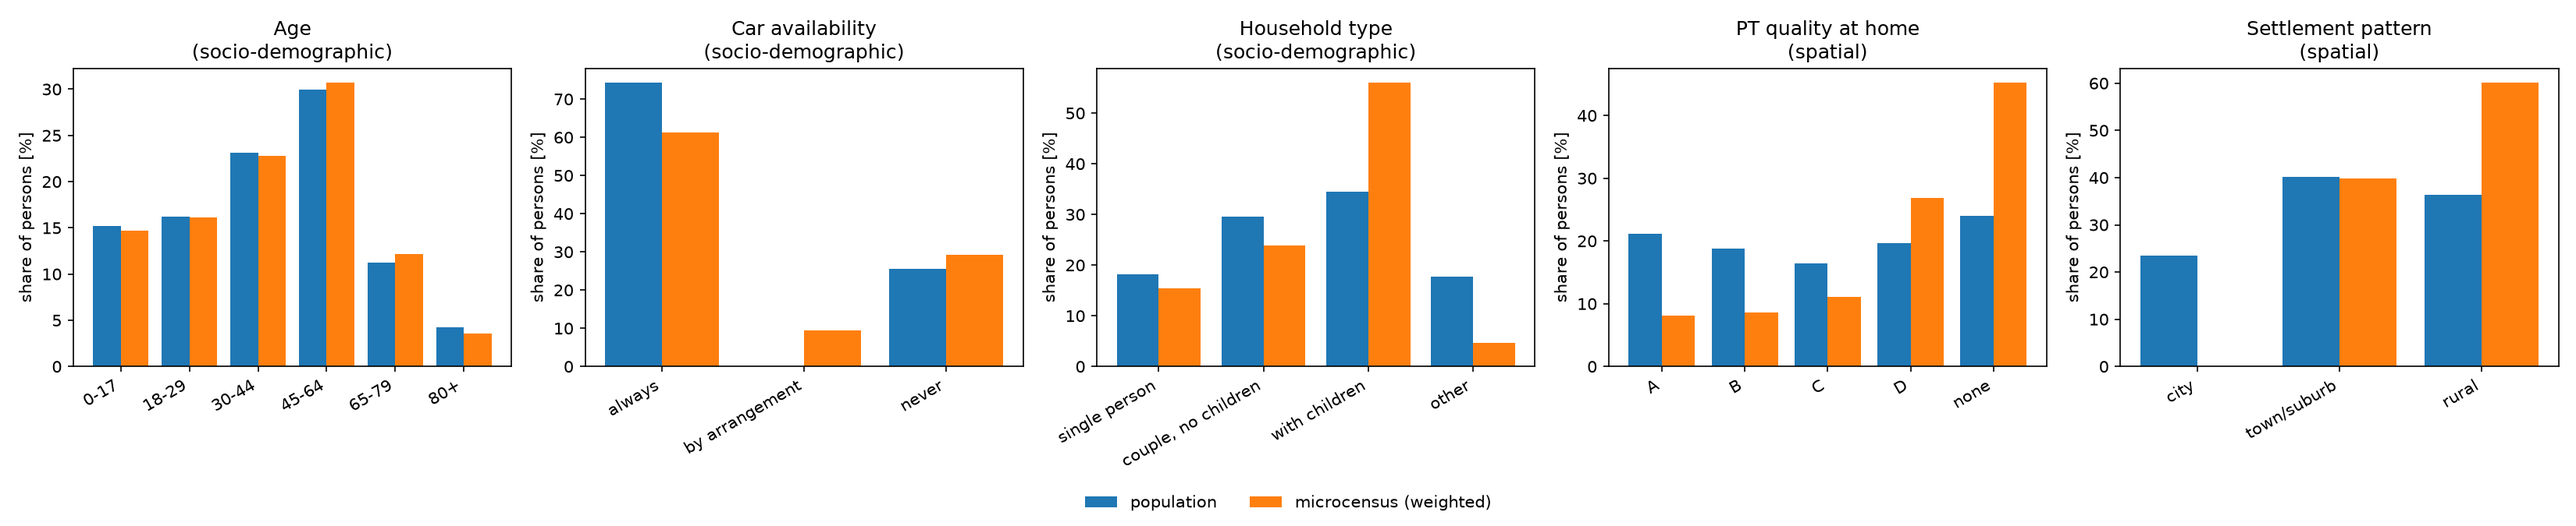
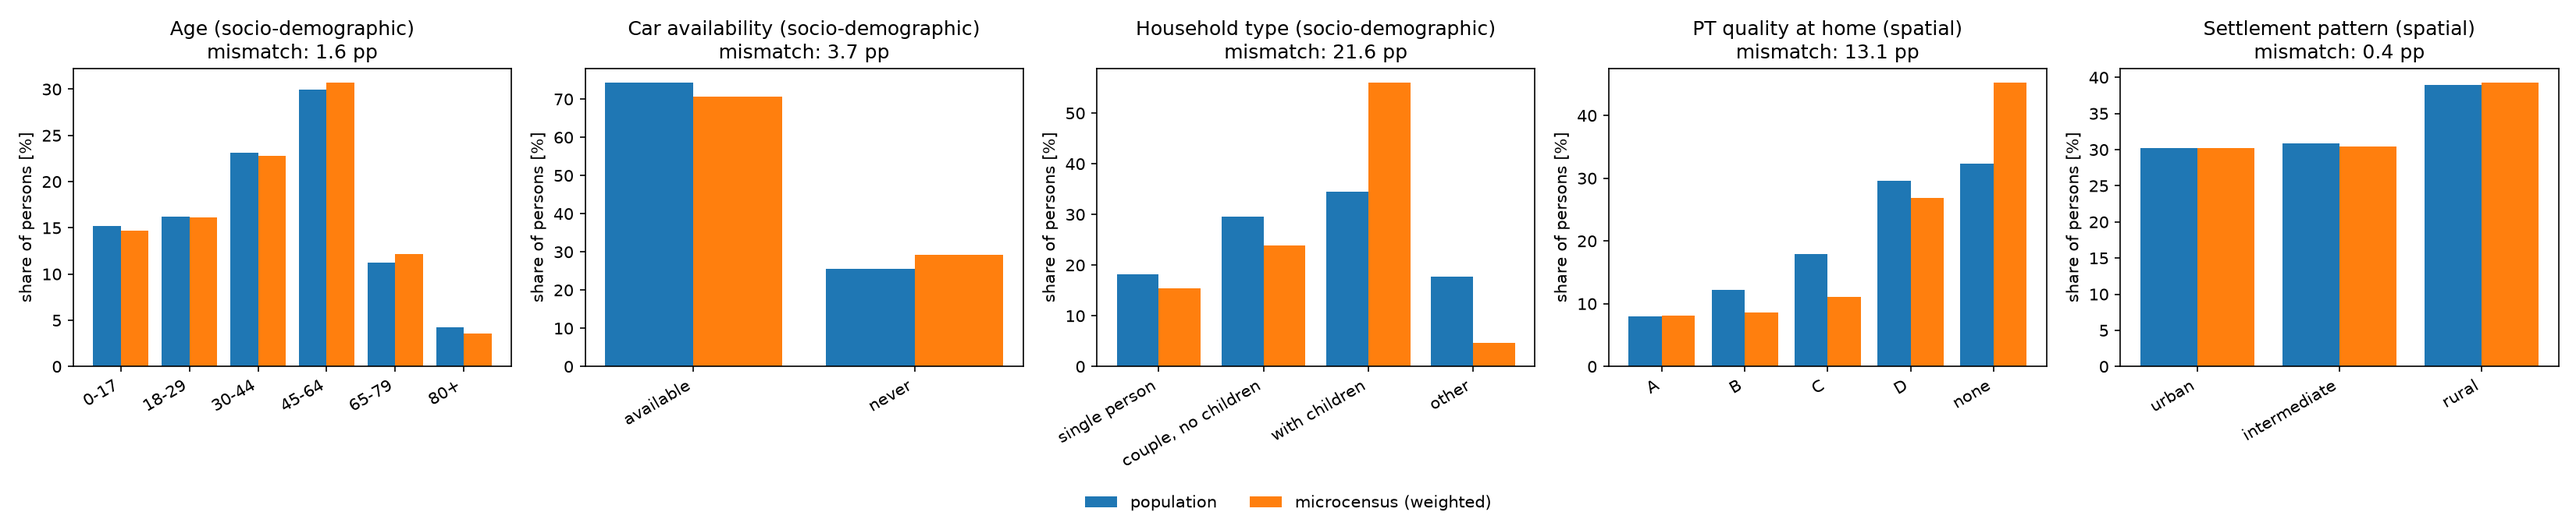
feat(assignment): update distribution comparison and add mismatch output

diff --git a/assignment/compare_distributions/compare.py b/assignment/compare_distributions/compare.py
@@ -6,13 +6,22 @@ two spatial ones (PT quality at home, settlement pattern), as shares of persons.
 Usage (from the repository root, after assignment/filter_data/filter_data.py):
     .venv/Scripts/python assignment/compare_distributions/compare.py
 
-Outputs: assignment/compare_distributions/output/comparison.csv and comparison.png
+Outputs: assignment/compare_distributions/output/comparison.csv, comparison.png and mismatch.csv
+
+Each subplot title shows the mismatch: the total variation distance between the two distributions,
+0.5 * sum(|population% - microcensus%|), in percentage points (0 = identical, 100 = disjoint). It is the
+share of persons that would have to change category for the population to match the microcensus.
 
 Notes
 - Microcensus shares are weighted with the person weight WP; population shares are unweighted.
+- Car availability: the population only distinguishes always/never, so the microcensus "always" and
+  "by arrangement" answers are merged into "available".
 - The microcensus has no target persons under 6, so the youngest age class differs by design.
-- Settlement pattern: population municipalityType is mapped onto the Eurostat DEGURBA classes
-  (urbancore/urban -> city, suburban -> town/suburb, rural -> rural); this is an approximation.
+- PT quality: the population value is looked up from the ARE Gueteklassen polygons (EPSG:2056) at
+  the home location; homes outside every polygon get "none". The microcensus uses its own W_OeV_KLASSE.
+- Settlement pattern: both datasets are classified from the home location with the BFS Stadt/Land-
+  Typologie 2012 (STALAN2012: urban / intermediate / rural municipality). Population homes are in
+  EPSG:2056, microcensus homes (W_X/W_Y) are WGS84 and are transformed.
 - Household type: the population has no such attribute, so it is derived from the household
   members (size, and whether a member is under 18).
 """
@@ -20,6 +29,7 @@ import gzip
 import re
 from pathlib import Path
 
+import geopandas as gpd
 import matplotlib.pyplot as plt
 import pandas as pd
 
@@ -28,14 +38,17 @@ DATA = ROOT / "data"
 POPULATION = DATA / "filtered" / "fribourg_population.xml.gz"
 HOUSEHOLDS = DATA / "Fribourg_10pct" / "fribourg_households.xml.gz"
 MC = DATA / "filtered" / "microcensus"
+GUETEKLASSEN = DATA / "gueteklassen_oev_2026" / "OeV_Gueteklassen_ARE.gpkg"
+STADTLAND = DATA / "stadtland_typologie" / "Boundaries_G1_GDETYP2012_20230101_de.gpkg"
 OUT = Path(__file__).resolve().parent / "output"
 
 AGE_BINS = [0, 18, 30, 45, 65, 80, 200]
 AGE_LABELS = ["0-17", "18-29", "30-44", "45-64", "65-79", "80+"]
-CAR = ["always", "by arrangement", "never"]
+CAR = ["available", "never"]
 HH_TYPE = ["single person", "couple, no children", "with children", "other"]
 PT = ["A", "B", "C", "D", "none"]
-SETTLEMENT = ["city", "town/suburb", "rural"]
+SETTLEMENT = ["urban", "intermediate", "rural"]
+STALAN = {"1": "urban", "2": "intermediate", "3": "rural"}  # stored as text in the gpkg
 ATTRIBUTES = [  # (title, categories, kind)
     ("Age", AGE_LABELS, "socio-demographic"),
     ("Car availability", CAR, "socio-demographic"),
@@ -46,7 +59,7 @@ ATTRIBUTES = [  # (title, categories, kind)
 
 
 def read_population():
-    attrs = {"age": "age", "carAvail": "car", "ovgk": "pt", "municipalityType": "settlement"}
+    attrs = {"age": "age", "carAvail": "car", "home_x": "x", "home_y": "y"}
     rows = []
     block = None
     with gzip.open(POPULATION, "rt", encoding="utf-8") as f:
@@ -65,7 +78,30 @@ def read_population():
                     row[attrs[m.group(1)]] = m.group(2)
     pop = pd.DataFrame(rows).set_index("id")
     pop["age"] = pop["age"].astype(int)
+    pop[["x", "y"]] = pop[["x", "y"]].astype(float)
     return pop
+
+
+def add_pt_quality(pop):
+    zones = gpd.read_file(GUETEKLASSEN, layer="OeV_Gueteklassen_ARE", columns=["KLASSE"])
+    homes = gpd.GeoDataFrame(geometry=gpd.points_from_xy(pop["x"], pop["y"]), index=pop.index, crs="EPSG:2056")
+    joined = homes.sjoin(zones.to_crs(homes.crs), how="left", predicate="within")
+    best = joined["KLASSE"].groupby(level=0).min()  # overlapping polygons: keep the best class (A < B < ...)
+    pop["pt"] = best.reindex(pop.index).fillna("none")
+
+
+def settlement_type(x, y, crs):
+    """BFS Stadt/Land-Typologie class of each point (index of x/y is kept)."""
+    zones = gpd.read_file(STADTLAND, columns=["STALAN2012"]).to_crs("EPSG:2056")
+    pts = gpd.GeoDataFrame(geometry=gpd.points_from_xy(x, y), index=x.index, crs=crs).to_crs("EPSG:2056")
+    joined = pts.sjoin(zones, how="left", predicate="within")
+    found = joined["STALAN2012"].groupby(level=0).first().reindex(x.index)
+    missing = found.index[found.isna()]  # e.g. points on an unclassified polygon: take the nearest classified one
+    if len(missing):
+        near = pts.loc[missing].sjoin_nearest(zones.dropna(subset=["STALAN2012"]), how="left")
+        found[missing] = near["STALAN2012"].groupby(level=0).first()
+        print(f"settlement: {len(missing)} points outside a classified municipality assigned to the nearest one")
+    return found.map(STALAN)
 
 
 def add_household_type(pop):
@@ -95,31 +131,30 @@ def share(series, categories, weights=None):
 
 def read_microcensus():
     z = pd.read_csv(MC / "zielpersonen.csv", encoding="latin1", usecols=["HHNR", "alter", "f42100e", "WP"])
-    h = pd.read_csv(MC / "haushalte.csv", encoding="latin1", usecols=["HHNR", "hhtyp", "W_OeV_KLASSE", "W_DEGURBA"])
+    h = pd.read_csv(MC / "haushalte.csv", encoding="latin1", usecols=["HHNR", "hhtyp", "W_OeV_KLASSE", "W_X", "W_Y"])
     mc = z.merge(h, on="HHNR")
     mc["age_c"] = pd.cut(mc["alter"], AGE_BINS, right=False, labels=AGE_LABELS)
-    mc["car"] = mc["f42100e"].map({1: "always", 2: "by arrangement"}).fillna("never")  # 3 and -99 (n/a) = never
+    mc["car"] = mc["f42100e"].map({1: "available", 2: "available"}).fillna("never")  # 3 and -99 (n/a) = never
     mc["hh_type"] = mc["hhtyp"].map({10: "single person", 210: "couple, no children", 220: "with children",
                                      230: "with children", 30: "other"})
     mc["pt"] = mc["W_OeV_KLASSE"].map({1: "A", 2: "B", 3: "C", 4: "D", 5: "none"})
-    mc["settlement"] = mc["W_DEGURBA"].map({1: "city", 2: "town/suburb", 3: "rural"})
+    mc["settlement"] = settlement_type(mc["W_X"], mc["W_Y"], "EPSG:4326")
     return mc
 
 
 def main():
     pop = read_population()
     add_household_type(pop)
+    add_pt_quality(pop)
+    pop["settlement"] = settlement_type(pop["x"], pop["y"], "EPSG:2056")
     pop["age_c"] = pd.cut(pop["age"], AGE_BINS, right=False, labels=AGE_LABELS)
-    pop["car"] = pop["car"].map({"always": "always", "arrangement": "by arrangement", "never": "never"})
-    pop["pt"] = pop["pt"].str.replace("None", "none")
-    pop["settlement"] = pop["settlement"].map({"urbancore": "city", "urban": "city",
-                                               "suburban": "town/suburb", "rural": "rural"})
+    pop["car"] = pop["car"].map({"always": "available", "arrangement": "available", "never": "never"})
     mc = read_microcensus()
     print(f"population: {len(pop)} persons; microcensus: {len(mc)} target persons")
 
     columns = {"Age": "age_c", "Car availability": "car", "Household type": "hh_type",
                "PT quality at home": "pt", "Settlement pattern": "settlement"}
-    table = []
+    table, summary = [], []
     fig, axes = plt.subplots(1, 5, figsize=(22, 4.5))
     for ax, (title, cats, kind) in zip(axes, ATTRIBUTES):
         col = columns[title]
@@ -127,6 +162,8 @@ def main():
         if mc[col].isna().any():  # e.g. refused/unknown household type codes (-97, -98)
             print(f"microcensus: {mc[col].isna().sum()} persons without {title}, excluded from its shares")
         p, m = share(pop[col], cats), share(mc[col], cats, mc["WP"])
+        tvd = 0.5 * (p - m).abs().sum()  # total variation distance: share of persons that would have to move
+        summary.append({"attribute": title, "type": kind, "total_variation_distance_pp": tvd})
         for c in cats:
             table.append({"type": kind, "attribute": title, "category": c, "population_%": p[c],
                           "microcensus_%": m[c], "difference_pp": p[c] - m[c]})
@@ -134,7 +171,7 @@ def main():
         ax.bar([i - 0.2 for i in x], p.values, 0.4, label="population")
         ax.bar([i + 0.2 for i in x], m.values, 0.4, label="microcensus (weighted)")
         ax.set_xticks(list(x), cats, rotation=30, ha="right")
-        ax.set_title(f"{title}\n({kind})")
+        ax.set_title(f"{title} ({kind})\nmismatch: {tvd:.1f} pp")
         ax.set_ylabel("share of persons [%]")
     handles, labels = axes[0].get_legend_handles_labels()
     fig.legend(handles, labels, loc="lower center", ncol=2, frameon=False)
@@ -144,6 +181,9 @@ def main():
     df = pd.DataFrame(table)
     df.to_csv(OUT / "comparison.csv", index=False, float_format="%.2f")
     print(df.round(1).to_string(index=False))
+    summary = pd.DataFrame(summary)
+    summary.to_csv(OUT / "mismatch.csv", index=False, float_format="%.2f")
+    print(summary.round(1).to_string(index=False))
     print(f"Wrote {OUT}")
 
 
